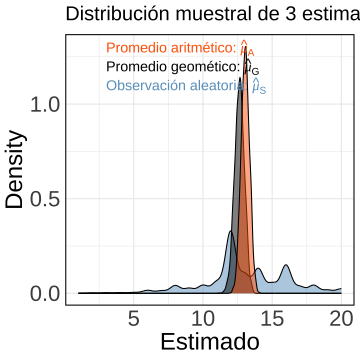
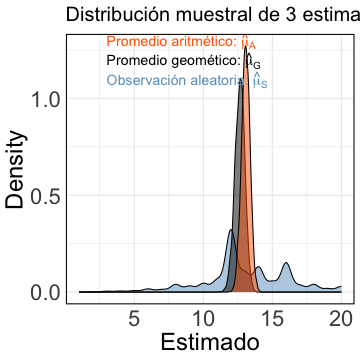
Update

diff --git a/slides/class_10/class_10.html b/slides/class_10/class_10.html
@@ -127,16 +127,16 @@ mimuestra %&gt;% as_tibble()
 ## # A tibble: 100 × 3
 ##    year   educ   age
 ##    &lt;fct&gt; &lt;dbl&gt; &lt;dbl&gt;
-##  1 1994     12    43
-##  2 2008      8    80
-##  3 2016      7    75
-##  4 1987     13    20
-##  5 1987     12    30
-##  6 2014      9    57
-##  7 1996      7    55
-##  8 1993     13    35
-##  9 1989     12    66
-## 10 2004     13    21
+##  1 1998     12    35
+##  2 2000     16    44
+##  3 2008     17    37
+##  4 2016     18    47
+##  5 1998     13    67
+##  6 1989     13    67
+##  7 1978     12    37
+##  8 1978     12    26
+##  9 1996     13    38
+## 10 2014     18    43
 ## # ℹ 90 more rows
 ```
 ]
@@ -152,7 +152,7 @@ cat("Promedio Aritmético= ", mu_A)
 ```
 
 ```
-## Promedio Aritmético=  12.93
+## Promedio Aritmético=  13.28
 ```
 
 ```r
@@ -160,7 +160,7 @@ cat("Promedio Geométrico= ", mu_G)
 ```
 
 ```
-## Promedio Geométrico=  12.3578
+## Promedio Geométrico=  12.74554
 ```
 
 ```r
@@ -168,7 +168,7 @@ cat("Observación aleatoria= ", mu_S)
 ```
 
 ```
-## Observación aleatoria=  15
+## Observación aleatoria=  10
 ```
 ]
 
@@ -207,9 +207,9 @@ for (i in 1:repeats) {
 ```
 ## Rows: 5,000
 ## Columns: 3
-## $ mu_A &lt;dbl&gt; 12.78, 13.15, 13.20, 13.01, 13.48, 12.87, 13.14, 13.55, 13.18, 12…
-## $ mu_G &lt;dbl&gt; 12.33533, 12.61245, 12.68109, 12.52603, 13.15939, 12.62303, 12.65…
-## $ mu_S &lt;dbl&gt; 16, 12, 20, 11, 14, 14, 12, 12, 12, 10, 12, 11, 14, 15, 11, 16, 1…
+## $ mu_A &lt;dbl&gt; 13.41, 13.50, 13.44, 13.44, 13.44, 13.92, 12.90, 13.19, 13.31, 13.30, 12.31, 13.25, 12.58, 1…
+## $ mu_G &lt;dbl&gt; 12.92011, 13.02081, 13.16023, 13.17912, 13.11233, 13.44793, 12.36819, 12.85603, 13.02351, 12…
+## $ mu_S &lt;dbl&gt; 12, 13, 8, 12, 12, 20, 16, 12, 14, 12, 12, 14, 12, 9, 7, 12, 14, 11, 9, 12, 14, 16, 16, 8, 9…
 ```
 
 ---
